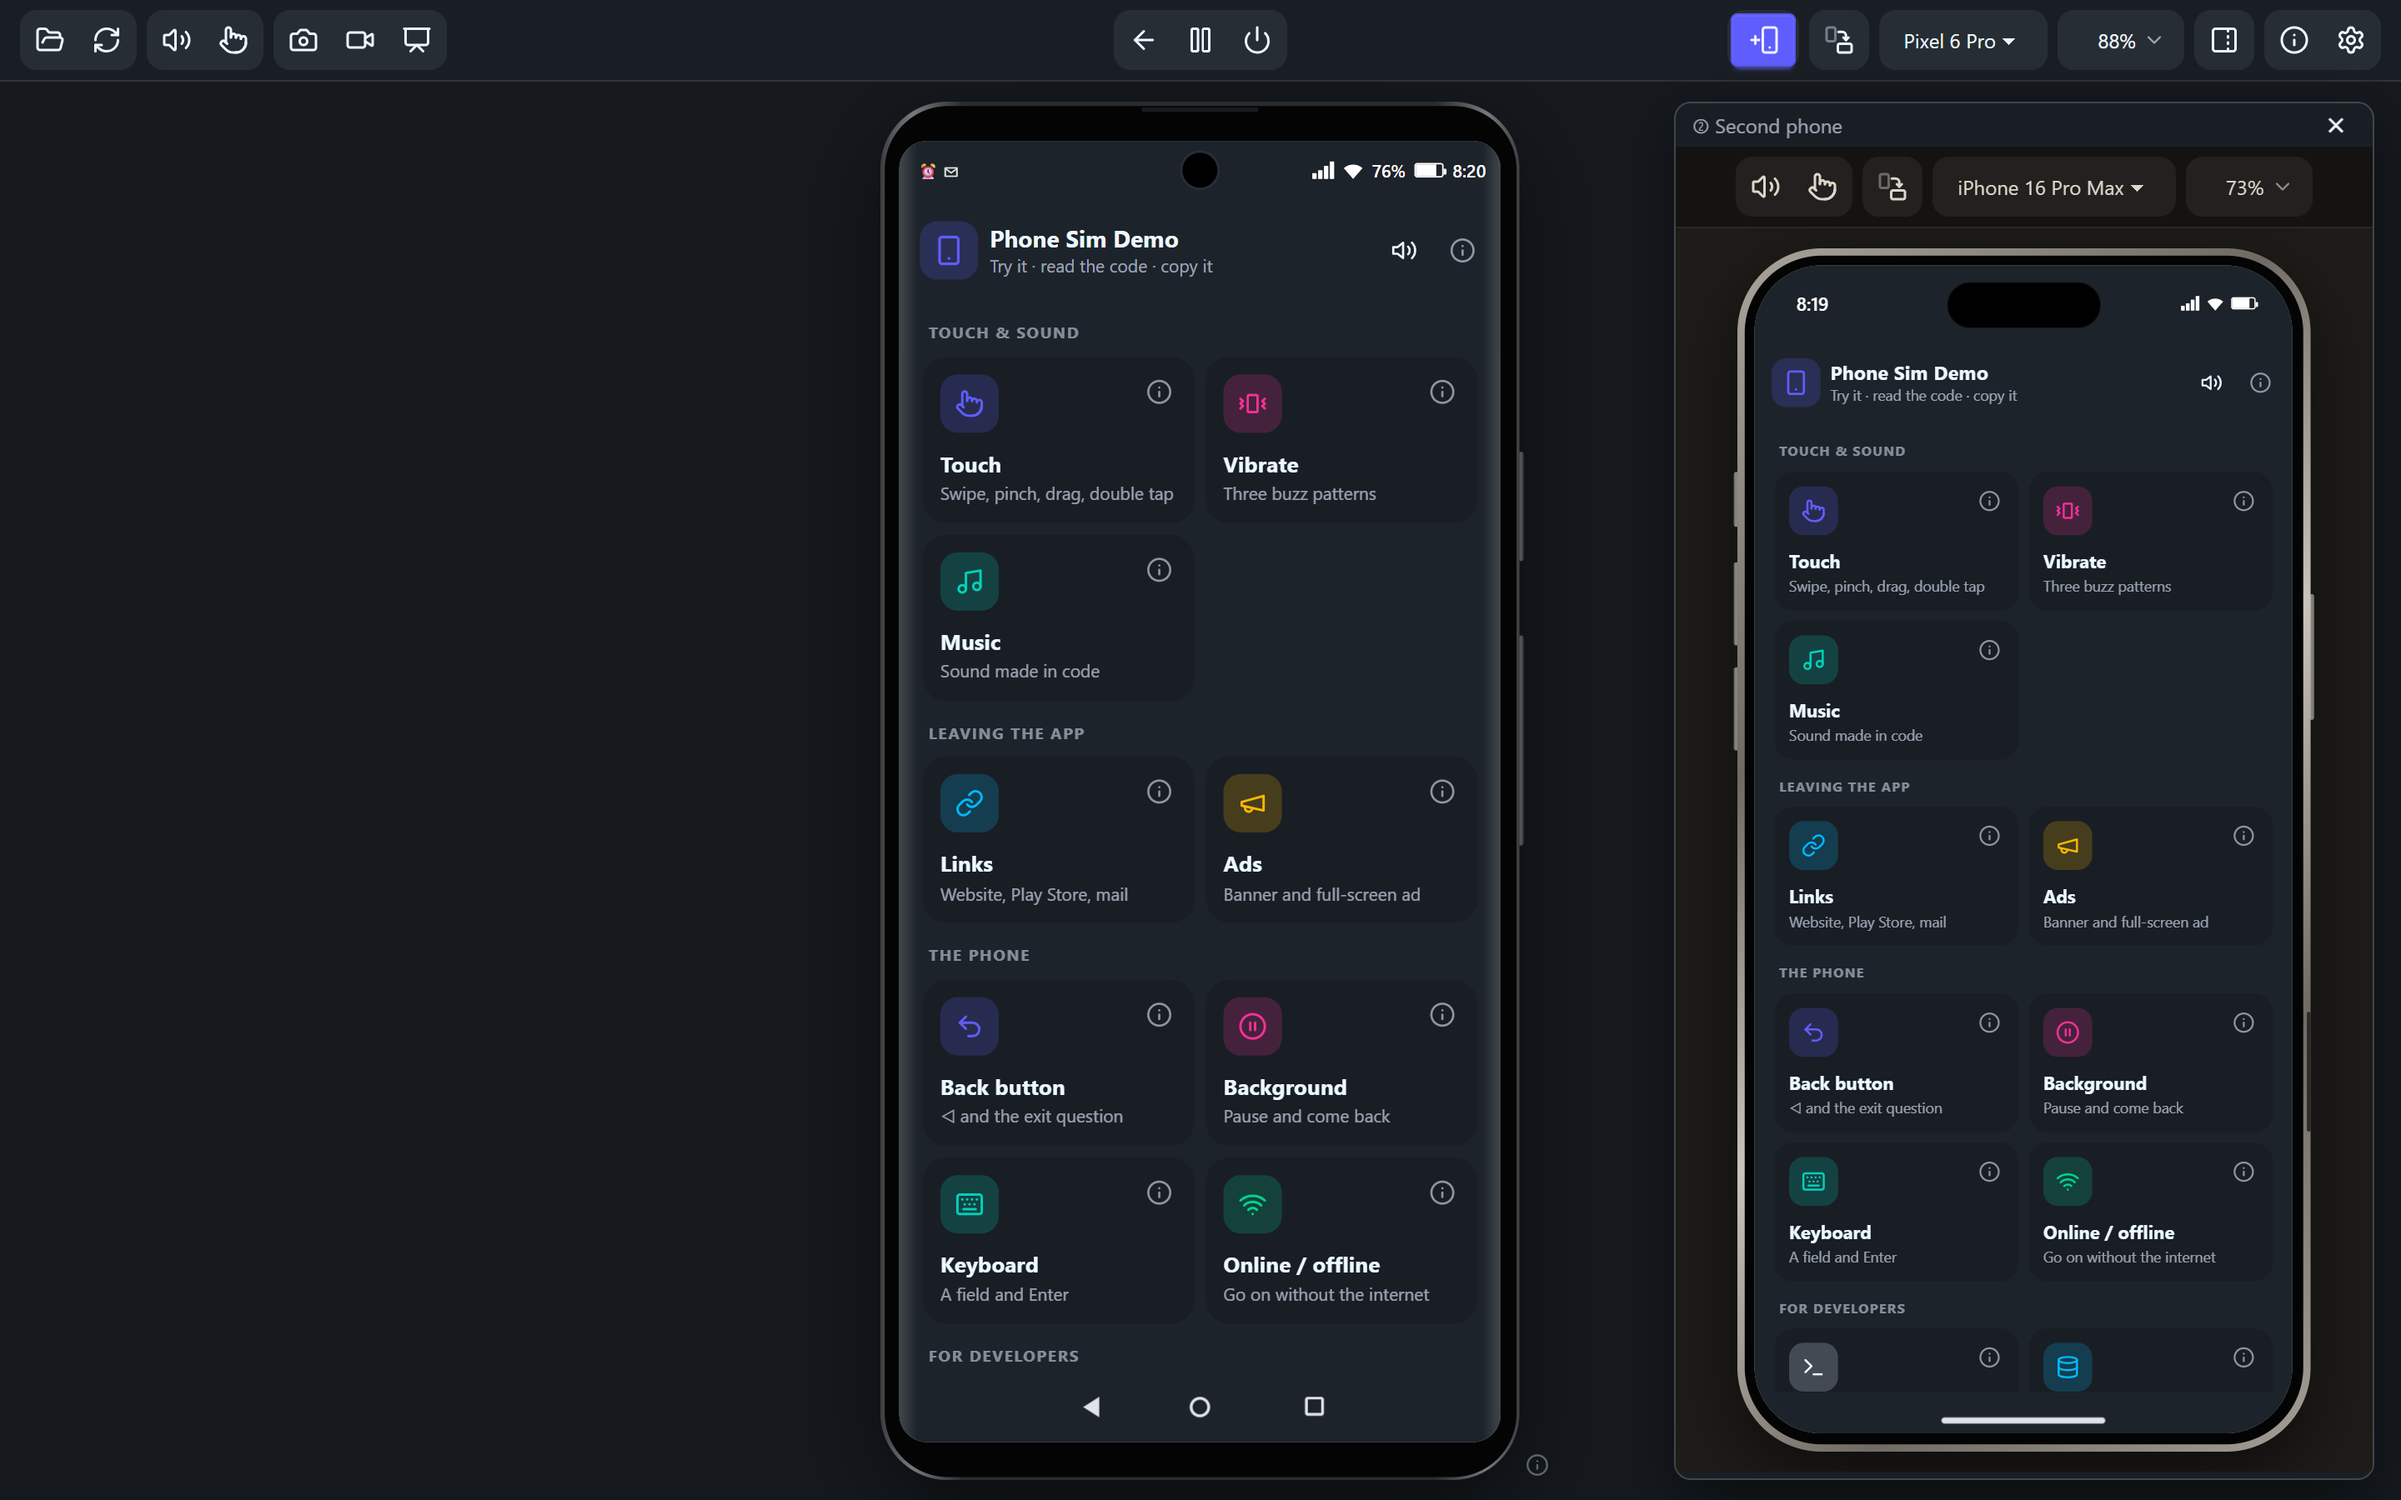
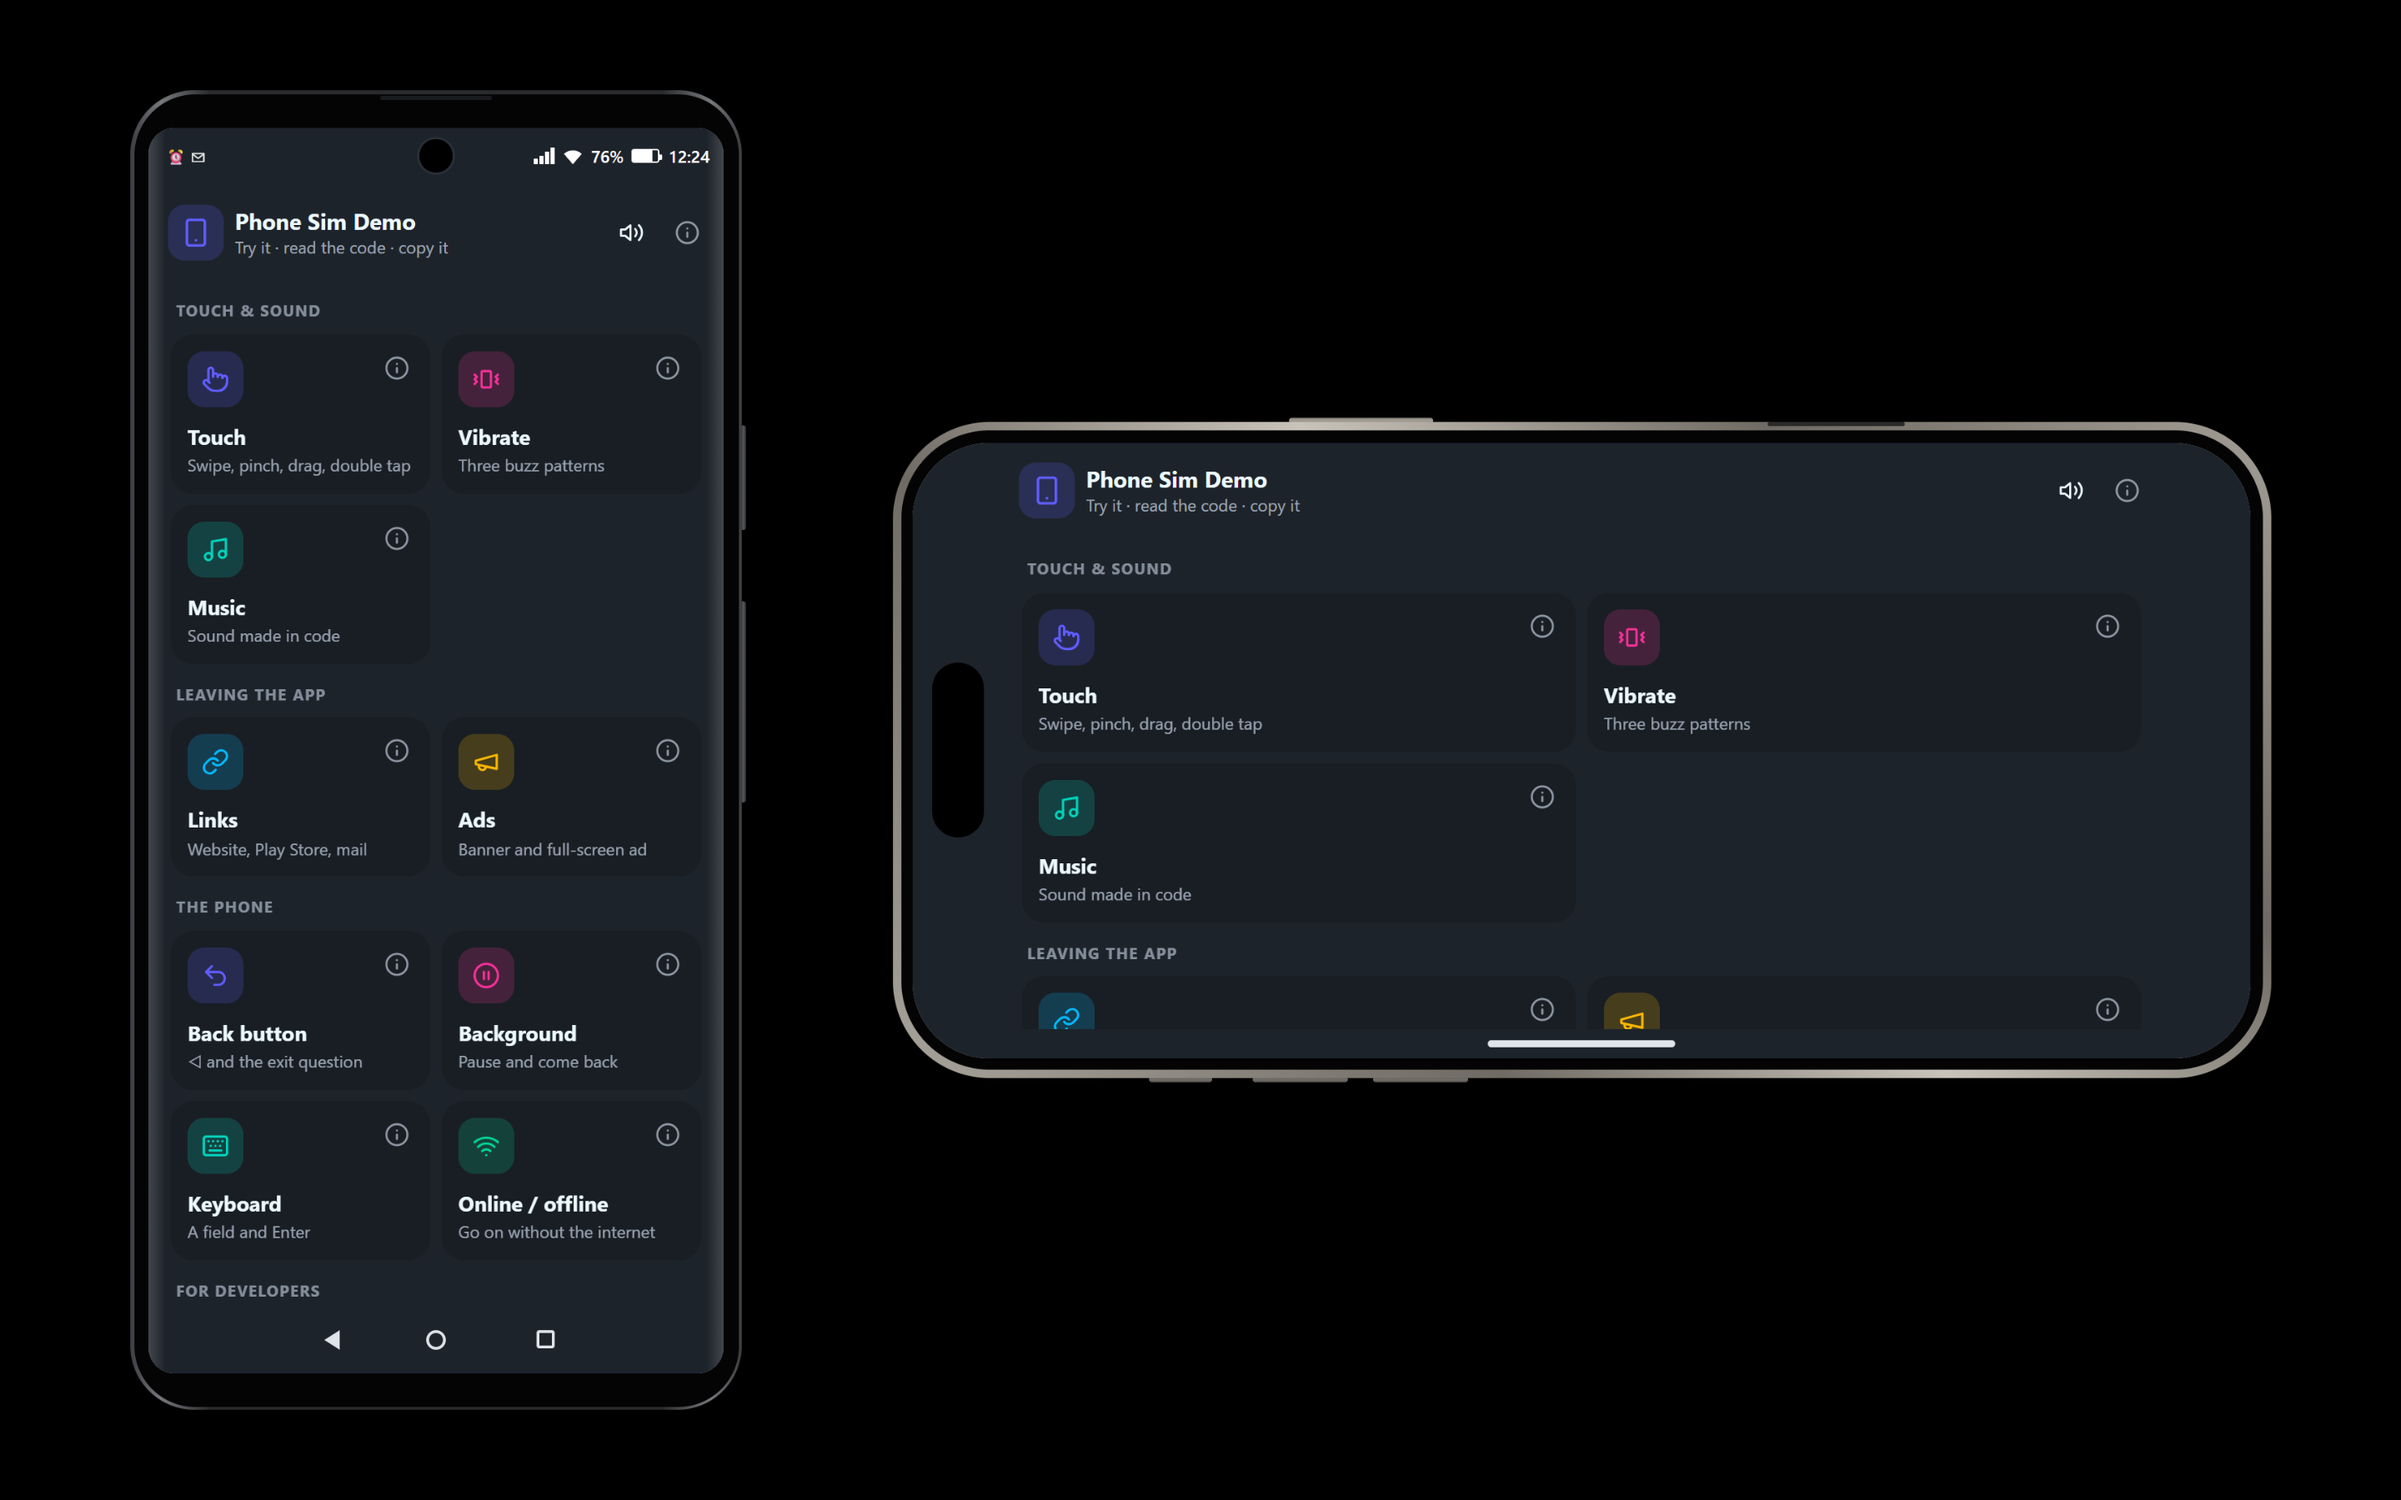
v1.13.2 — README: second phone turned sideways in the two-phone photo
Pixel 6 Pro upright, iPhone 16 Pro Max in landscape, so the photo shows landscape works.

diff --git a/README.md b/README.md
@@ -13,7 +13,7 @@ Your app runs inside the phone. Beside it, the console shows what the app does a
 
 Pick a phone: Samsung, Pixel, iPhone, foldables, tablets. Turn it sideways.
 
-![A Pixel 6 Pro and a second phone, an iPhone 16 Pro Max, side by side with the same app](docs/screenshots/phone-sim-twin.png)
+![The same app on a Pixel 6 Pro (portrait) and an iPhone 16 Pro Max (landscape)](docs/screenshots/phone-sim-twin.png)
 
 Open a second phone next to the first, with the same app.
 
